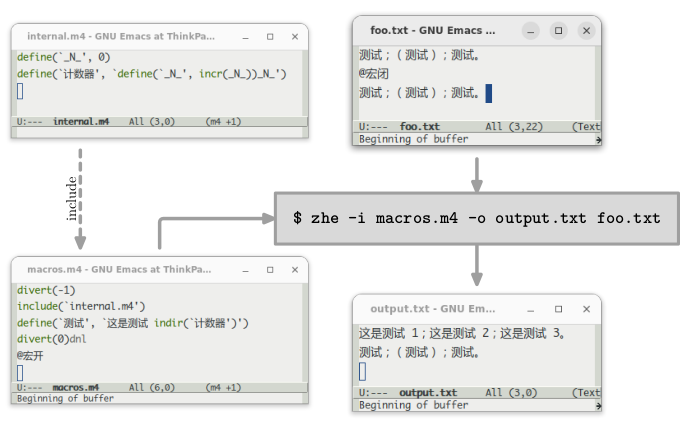
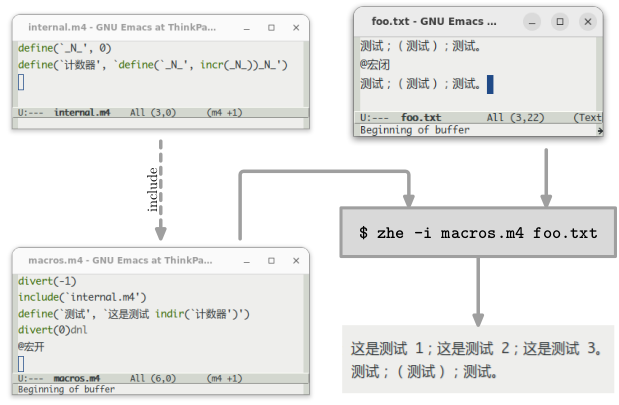
wip

Changed region(s): [[0.0, 0.0, 1.0, 1.0]]

diff --git a/output/bash/zhe.html b/output/bash/zhe.html
@@ -15,6 +15,7 @@
     pre > code.sourceCode { white-space: pre; position: relative; }
     pre > code.sourceCode > span { display: inline-block; line-height: 1.25; }
     pre > code.sourceCode > span:empty { height: 1.2em; }
+    .sourceCode { overflow: visible; }
     code.sourceCode > span { color: inherit; text-decoration: inherit; }
     div.sourceCode { margin: 1em 0; }
     pre.sourceCode { margin: 0; }
@@ -49,7 +50,7 @@
     code span.an { color: #60a0b0; font-weight: bold; font-style: italic; } /* Annotation */
     code span.at { color: #7d9029; } /* Attribute */
     code span.bn { color: #40a070; } /* BaseN */
-    code span.bu { } /* BuiltIn */
+    code span.bu { color: #008000; } /* BuiltIn */
     code span.cf { color: #007020; font-weight: bold; } /* ControlFlow */
     code span.ch { color: #4070a0; } /* Char */
     code span.cn { color: #880000; } /* Constant */
@@ -62,7 +63,7 @@
     code span.ex { } /* Extension */
     code span.fl { color: #40a070; } /* Float */
     code span.fu { color: #06287e; } /* Function */
-    code span.im { } /* Import */
+    code span.im { color: #008000; font-weight: bold; } /* Import */
     code span.in { color: #60a0b0; font-weight: bold; font-style: italic; } /* Information */
     code span.kw { color: #007020; font-weight: bold; } /* Keyword */
     code span.op { color: #666666; } /* Operator */
@@ -96,22 +97,34 @@
 <li><a href="#示例">示例</a>
 <ul>
 <li><a href="#计数器">计数器</a></li>
+<li><a href="#lua-计算器">Lua 计算器</a></li>
 </ul></li>
 </ul>
 </nav>
-<p>zhe 是使用 bash 语言编写的脚本，可用于简化中文 m4 宏的展开。除 bash 和 m4 之外，执行 zhe 还需要 awk。</p>
-<p>使用 zhe 脚本的前提是对 m4 语言有所了解。我曾经写过一份 GNU m4 学习笔记「让这世界再多一份 GNU m4 教程 <a href="https://segmentfault.com/a/1190000004104696">(1)</a> <a href="https://segmentfault.com/a/1190000004108113">(2)</a> <a href="https://segmentfault.com/a/1190000004128102">(3)</a> <a href="https://segmentfault.com/a/1190000004131031">(4)</a> <a href="https://segmentfault.com/a/1190000004137562">(5)</a>」可供参考。</p>
+<p>zhe 是使用 bash 语言编写的脚本，可用于简化中文 m4 宏的展开。除 bash
+和 m4 之外，执行 zhe 还需要 awk。</p>
+<p>使用 zhe 脚本的前提是对 m4 语言有所了解。我曾经写过一份 GNU m4
+学习笔记「让这世界再多一份 GNU m4 教程 <a
+href="https://segmentfault.com/a/1190000004104696">(1)</a> <a
+href="https://segmentfault.com/a/1190000004108113">(2)</a> <a
+href="https://segmentfault.com/a/1190000004128102">(3)</a> <a
+href="https://segmentfault.com/a/1190000004131031">(4)</a> <a
+href="https://segmentfault.com/a/1190000004137562">(5)</a>」可供参考。</p>
 <figure>
-<img src="../../figures/bash/zhe/01.png" alt="" /><figcaption>zhe</figcaption>
+<img src="../../figures/bash/zhe/01.png" alt="zhe" />
+<figcaption aria-hidden="true">zhe</figcaption>
 </figure>
 <h1 id="安装">安装</h1>
-<p>假设在 bash 环境里，将 zhe 脚本安装在 $HOME/opt/zhe 目录，可参考以下步骤：</p>
-<div class="sourceCode" id="cb1"><pre class="sourceCode bash"><code class="sourceCode bash"><span id="cb1-1"><a href="#cb1-1" aria-hidden="true"></a>$ <span class="fu">mkdir</span> -p <span class="va">$HOME</span>/opt</span>
-<span id="cb1-2"><a href="#cb1-2" aria-hidden="true"></a>$ <span class="bu">cd</span> <span class="va">$HOME</span>/opt</span>
-<span id="cb1-3"><a href="#cb1-3" aria-hidden="true"></a>$ <span class="fu">git</span> clone https://github.com/liyanrui/zhe.git</span>
-<span id="cb1-4"><a href="#cb1-4" aria-hidden="true"></a>$ <span class="bu">echo</span> <span class="st">&#39;export PATH=$HOME/opt/zhe:$PATH&#39;</span> <span class="op">&gt;&gt;</span> <span class="va">$HOME</span>/.bashrc</span></code></pre></div>
+<p>假设在 bash 环境里，将 zhe 脚本安装在 $HOME/opt/zhe
+目录，可参考以下步骤：</p>
+<div class="sourceCode" id="cb1"><pre
+class="sourceCode bash"><code class="sourceCode bash"><span id="cb1-1"><a href="#cb1-1" aria-hidden="true" tabindex="-1"></a><span class="ex">$</span> mkdir <span class="at">-p</span> <span class="va">$HOME</span>/opt</span>
+<span id="cb1-2"><a href="#cb1-2" aria-hidden="true" tabindex="-1"></a><span class="ex">$</span> cd <span class="va">$HOME</span>/opt</span>
+<span id="cb1-3"><a href="#cb1-3" aria-hidden="true" tabindex="-1"></a><span class="ex">$</span> git clone https://github.com/liyanrui/zhe.git</span>
+<span id="cb1-4"><a href="#cb1-4" aria-hidden="true" tabindex="-1"></a><span class="ex">$</span> echo <span class="st">&#39;export PATH=$HOME/opt/zhe:$PATH&#39;</span> <span class="op">&gt;&gt;</span> <span class="va">$HOME</span>/.bashrc</span></code></pre></div>
 <p>在任意目录下，执行以下命令可确认 zhe 脚本是否可用：</p>
-<div class="sourceCode" id="cb2"><pre class="sourceCode bash"><code class="sourceCode bash"><span id="cb2-1"><a href="#cb2-1" aria-hidden="true"></a>$ <span class="ex">zhe</span> -h</span></code></pre></div>
+<div class="sourceCode" id="cb2"><pre
+class="sourceCode bash"><code class="sourceCode bash"><span id="cb2-1"><a href="#cb2-1" aria-hidden="true" tabindex="-1"></a><span class="ex">$</span> zhe <span class="at">-h</span></span></code></pre></div>
 <p>上述命令应当输出：</p>
 <pre><code>Usage: zhe [OPTION] FILE
 Opitons:
@@ -119,69 +132,117 @@ Opitons:
   -o file   output result to file.</code></pre>
 <h1 id="用法">用法</h1>
 <p>假设文件 macros.m4 中定义了一些以汉字或标点符号命名的 m4 宏，例如</p>
-<div class="sourceCode" id="cb4"><pre class="sourceCode m4"><code class="sourceCode m4"><span id="cb4-1"><a href="#cb4-1" aria-hidden="true"></a><span class="kw">divert</span><span class="ch">(-</span><span class="dv">1</span><span class="ch">)</span></span>
-<span id="cb4-2"><a href="#cb4-2" aria-hidden="true"></a><span class="kw">define</span><span class="ch">(</span>`将近酒&#39;<span class="ch">,</span> `「君不见，黄河之水天上来……」&#39;<span class="ch">)</span></span>
-<span id="cb4-3"><a href="#cb4-3" aria-hidden="true"></a><span class="kw">define</span><span class="ch">(</span>`。&#39;<span class="ch">,</span> `.&#39;<span class="ch">)</span></span>
-<span id="cb4-4"><a href="#cb4-4" aria-hidden="true"></a><span class="kw">divert</span><span class="ch">(</span><span class="dv">0</span><span class="ch">)</span><span class="kw">dnl</span></span></code></pre></div>
+<div class="sourceCode" id="cb4"><pre class="sourceCode m4"><code class="sourceCode m4"><span id="cb4-1"><a href="#cb4-1" aria-hidden="true" tabindex="-1"></a><span class="kw">divert</span><span class="ch">(-</span><span class="dv">1</span><span class="ch">)</span></span>
+<span id="cb4-2"><a href="#cb4-2" aria-hidden="true" tabindex="-1"></a><span class="kw">define</span><span class="ch">(</span>`将近酒&#39;<span class="ch">,</span> `「君不见，黄河之水天上来……」&#39;<span class="ch">)</span></span>
+<span id="cb4-3"><a href="#cb4-3" aria-hidden="true" tabindex="-1"></a><span class="kw">define</span><span class="ch">(</span>`。&#39;<span class="ch">,</span> `.&#39;<span class="ch">)</span></span>
+<span id="cb4-4"><a href="#cb4-4" aria-hidden="true" tabindex="-1"></a><span class="kw">divert</span><span class="ch">(</span><span class="dv">0</span><span class="ch">)</span><span class="kw">dnl</span></span></code></pre></div>
 <p>假设文件 foo.txt 中使用了 macros.m4 中定义的宏，例如</p>
-<div class="sourceCode" id="cb5"><pre class="sourceCode m4"><code class="sourceCode m4"><span id="cb5-1"><a href="#cb5-1" aria-hidden="true"></a>@宏开</span>
-<span id="cb5-2"><a href="#cb5-2" aria-hidden="true"></a>你听说过将近酒吗？我认为这是一首最优秀的唐诗。</span></code></pre></div>
-<p>使用以下命令可将 foo.txt 中位于 <code>@宏开</code> 之后的内容展开：</p>
-<div class="sourceCode" id="cb6"><pre class="sourceCode bash"><code class="sourceCode bash"><span id="cb6-1"><a href="#cb6-1" aria-hidden="true"></a>$ <span class="ex">zhe</span> -i macros.m4 foo.txt</span>
-<span id="cb6-2"><a href="#cb6-2" aria-hidden="true"></a>你听说过「君不见，黄河之水天上来……」吗？我认为这是一首最优秀的唐诗<span class="ex">.</span></span></code></pre></div>
-<p>上述示例表现了 <code>@宏开</code> 之后的语句中的 <code>将近酒</code> 和中文句号分别被展开为 <code>「君不见，黄河之水天上来……」</code> 和英文句号。</p>
-<p>与 <code>@宏开</code> 相反，<code>@宏闭</code> 可令 zhe 忽略语句中的宏。例如</p>
-<div class="sourceCode" id="cb7"><pre class="sourceCode m4"><code class="sourceCode m4"><span id="cb7-1"><a href="#cb7-1" aria-hidden="true"></a>@宏闭</span>
-<span id="cb7-2"><a href="#cb7-2" aria-hidden="true"></a>你听说过将近酒吗？我认为这是一首最优秀的唐诗。</span></code></pre></div>
+<div class="sourceCode" id="cb5"><pre class="sourceCode m4"><code class="sourceCode m4"><span id="cb5-1"><a href="#cb5-1" aria-hidden="true" tabindex="-1"></a>@宏开</span>
+<span id="cb5-2"><a href="#cb5-2" aria-hidden="true" tabindex="-1"></a>你听说过将近酒吗？我认为这是一首最优秀的唐诗。</span></code></pre></div>
+<p>使用以下命令可将 foo.txt 中位于 <code>@宏开</code>
+之后的内容展开：</p>
+<div class="sourceCode" id="cb6"><pre
+class="sourceCode bash"><code class="sourceCode bash"><span id="cb6-1"><a href="#cb6-1" aria-hidden="true" tabindex="-1"></a><span class="ex">$</span> zhe <span class="at">-i</span> macros.m4 foo.txt</span>
+<span id="cb6-2"><a href="#cb6-2" aria-hidden="true" tabindex="-1"></a><span class="ex">你听说过「君不见，黄河之水天上来……」吗？我认为这是一首最优秀的唐诗.</span></span></code></pre></div>
+<p>上述示例表现了 <code>@宏开</code> 之后的语句中的 <code>将近酒</code>
+和中文句号分别被展开为 <code>「君不见，黄河之水天上来……」</code>
+和英文句号。</p>
+<p>与 <code>@宏开</code> 相反，<code>@宏闭</code> 可令 zhe
+忽略语句中的宏。例如</p>
+<div class="sourceCode" id="cb7"><pre class="sourceCode m4"><code class="sourceCode m4"><span id="cb7-1"><a href="#cb7-1" aria-hidden="true" tabindex="-1"></a>@宏闭</span>
+<span id="cb7-2"><a href="#cb7-2" aria-hidden="true" tabindex="-1"></a>你听说过将近酒吗？我认为这是一首最优秀的唐诗。</span></code></pre></div>
 <p>zhe 命令对上述内容的处理结果为</p>
-<div class="sourceCode" id="cb8"><pre class="sourceCode m4"><code class="sourceCode m4"><span id="cb8-1"><a href="#cb8-1" aria-hidden="true"></a>你听说过将近酒吗？我认为这是一首最优秀的唐诗。</span></code></pre></div>
+<div class="sourceCode" id="cb8"><pre class="sourceCode m4"><code class="sourceCode m4"><span id="cb8-1"><a href="#cb8-1" aria-hidden="true" tabindex="-1"></a>你听说过将近酒吗？我认为这是一首最优秀的唐诗。</span></code></pre></div>
 <p>使用 <code>-o</code> 选项可将 zhe 的输出保存到指定的文件。例如</p>
-<div class="sourceCode" id="cb9"><pre class="sourceCode bash"><code class="sourceCode bash"><span id="cb9-1"><a href="#cb9-1" aria-hidden="true"></a>$ <span class="ex">zhe</span> -i macros.m4 -o foo-output.txt foo.txt</span></code></pre></div>
-<p>可将 zhe 的输出结果保存到与 foo.txt 位于同一目录下的文件 foo-output.txt 中。</p>
+<div class="sourceCode" id="cb9"><pre
+class="sourceCode bash"><code class="sourceCode bash"><span id="cb9-1"><a href="#cb9-1" aria-hidden="true" tabindex="-1"></a><span class="ex">$</span> zhe <span class="at">-i</span> macros.m4 <span class="at">-o</span> foo-output.txt foo.txt</span></code></pre></div>
+<p>可将 zhe 的输出结果保存到与 foo.txt 位于同一目录下的文件
+foo-output.txt 中。</p>
 <h1 id="宏的调用">宏的调用</h1>
-<p>zhe（基于 Awk 脚本）改变了 m4 宏的调用语法。对于无参数宏，如上一节示例里的两个宏，以普通文字的形式出现即可，亦可以中文括号（全角括号）囊括的形式出现，例如</p>
+<p>zhe（基于 Awk 脚本）改变了 m4
+宏的调用语法。对于无参数宏，如上一节示例里的两个宏，以普通文字的形式出现即可，亦可以中文括号（全角括号）囊括的形式出现，例如</p>
 <pre><code>你听说过（将近酒）吗？我认为这是一首最优秀的唐诗。</code></pre>
 <p>中文括号形式的宏调用主要是面向有参数的宏，调用语法为</p>
-<div class="sourceCode" id="cb11"><pre class="sourceCode m4"><code class="sourceCode m4"><span id="cb11-1"><a href="#cb11-1" aria-hidden="true"></a>（宏名，参数 <span class="dv">1</span>，参数 <span class="dv">2</span>，……）</span></code></pre></div>
-<p>注意，宏名以及参数之间的逗号，皆为中文逗号（全角逗号）。例如，在 macros.m4 文件中定义一个有参数的宏</p>
-<div class="sourceCode" id="cb12"><pre class="sourceCode m4"><code class="sourceCode m4"><span id="cb12-1"><a href="#cb12-1" aria-hidden="true"></a><span class="kw">define</span><span class="ch">(</span>`测试&#39;<span class="ch">,</span> `这是测试 <span class="ch">$1</span>。&#39;<span class="ch">)</span></span></code></pre></div>
+<div class="sourceCode" id="cb11"><pre
+class="sourceCode m4"><code class="sourceCode m4"><span id="cb11-1"><a href="#cb11-1" aria-hidden="true" tabindex="-1"></a>（宏名，参数 <span class="dv">1</span>，参数 <span class="dv">2</span>，……）</span></code></pre></div>
+<p>注意，宏名以及参数之间的逗号，皆为中文逗号（全角逗号）。例如，在
+macros.m4 文件中定义一个有参数的宏</p>
+<div class="sourceCode" id="cb12"><pre
+class="sourceCode m4"><code class="sourceCode m4"><span id="cb12-1"><a href="#cb12-1" aria-hidden="true" tabindex="-1"></a><span class="kw">define</span><span class="ch">(</span>`测试&#39;<span class="ch">,</span> `这是测试 <span class="ch">$1</span>。&#39;<span class="ch">)</span></span></code></pre></div>
 <p>在 foo.txt 中可以像下面这样调用 <code>测试</code> 宏：</p>
 <pre><code>有参数的宏：（测试，2）</code></pre>
 <p>上述语句在 <code>@宏开</code> 模式下，可被 zhe 展开为</p>
 <pre><code>有参数的宏：这是测试 2。</code></pre>
+<p><strong>特别提醒：目前，zhe 尚不支持嵌套形式的中文宏调用，例如
+<code>（甲，‘乙’，（丙，‘丁’））</code>。下一个版本将实现该功能。</strong></p>
 <h1 id="缘由">缘由</h1>
-<p>m4 的宏调用语法是迎合英文习惯，英文单词之间是有空格作为间隔的，在视觉上容易分辨出普通文字和宏调用语句的区别。例如</p>
+<p>m4
+的宏调用语法是迎合英文习惯，英文单词之间是有空格作为间隔的，在视觉上容易分辨出普通文字和宏调用语句的区别。例如</p>
 <pre><code>when we say test(3), what are we talking about?</code></pre>
-<p>中文字符之间通常没有空格作为间隔，若采用 m4 宏的调用语法，固然可行，但是对于含有宏调用的语句，其可读性将大打折扣。例如，</p>
+<p>中文字符之间通常没有空格作为间隔，若采用 m4
+宏的调用语法，固然可行，但是对于含有宏调用的语句，其可读性将大打折扣。例如，</p>
 <pre><code>当我们说测试（3）的时候，我们在说什么？</code></pre>
-<p>故而，zhe 修改了有参数的中文宏的调用方式（借鉴了 Lisp 函数调用），将宏名移到括号内，且为了避免频繁切换输入法以输入英文括号，逗号和引号，中文宏调用语句使用的标点符号皆为全角标点。</p>
+<p>故而，zhe 修改了有参数的中文宏的调用方式（借鉴了 Lisp
+函数调用），将宏名移到括号内，且为了避免频繁切换输入法以输入英文括号，逗号和引号，中文宏调用语句使用的标点符号皆为全角标点。</p>
 <h1 id="引号">引号</h1>
-<p>m4 的引号可用于字符转义——将特殊字符转为普通字符。zhe 与之类似，只是使用中文单引号代替了 m4 的 ` 和 ’。例如，以下语句</p>
-<div class="sourceCode" id="cb17"><pre class="sourceCode m4"><code class="sourceCode m4"><span id="cb17-1"><a href="#cb17-1" aria-hidden="true"></a>有参数的宏：‘（测试，<span class="dv">2</span>）’</span></code></pre></div>
-<p>其中宏调用 <code>（测试，2）</code> 会被引号转义为普通文字，zhe 不予展开，故而 zhe 对上述语句的处理结果为</p>
-<div class="sourceCode" id="cb18"><pre class="sourceCode m4"><code class="sourceCode m4"><span id="cb18-1"><a href="#cb18-1" aria-hidden="true"></a>有参数的宏：（测试，<span class="dv">2</span>）</span></code></pre></div>
+<p>m4 的引号可用于字符转义——将特殊字符转为普通字符。zhe
+与之类似，只是使用中文单引号代替了 m4 的 ` 和 ’。例如，以下语句</p>
+<div class="sourceCode" id="cb17"><pre
+class="sourceCode m4"><code class="sourceCode m4"><span id="cb17-1"><a href="#cb17-1" aria-hidden="true" tabindex="-1"></a>有参数的宏：‘（测试，<span class="dv">2</span>）’</span></code></pre></div>
+<p>其中宏调用 <code>（测试，2）</code> 会被引号转义为普通文字，zhe
+不予展开，故而 zhe 对上述语句的处理结果为</p>
+<div class="sourceCode" id="cb18"><pre
+class="sourceCode m4"><code class="sourceCode m4"><span id="cb18-1"><a href="#cb18-1" aria-hidden="true" tabindex="-1"></a>有参数的宏：（测试，<span class="dv">2</span>）</span></code></pre></div>
 <h1 id="示例">示例</h1>
-<p>除了简单的文本替换之外，zhe 也能用于解决一些较为复杂问题。该部分内容可能会持续更新。</p>
+<p>除了简单的文本替换之外，zhe
+目前也能用于解决一些略微复杂的问题。该部分内容可能会持续更新。</p>
 <h2 id="计数器">计数器</h2>
 <p>文件 internal.m4：</p>
-<div class="sourceCode" id="cb19"><pre class="sourceCode m4"><code class="sourceCode m4"><span id="cb19-1"><a href="#cb19-1" aria-hidden="true"></a><span class="kw">define</span><span class="ch">(</span>`_N_&#39;<span class="ch">,</span> <span class="dv">0</span><span class="ch">)</span></span>
-<span id="cb19-2"><a href="#cb19-2" aria-hidden="true"></a><span class="kw">define</span><span class="ch">(</span>`计数器&#39;<span class="ch">,</span> `define<span class="ch">(</span>`_N_&#39;<span class="ch">,</span> <span class="kw">incr</span><span class="ch">(</span>_N_<span class="ch">))</span>_N_&#39;<span class="ch">)</span></span></code></pre></div>
+<div class="sourceCode" id="cb19"><pre
+class="sourceCode m4"><code class="sourceCode m4"><span id="cb19-1"><a href="#cb19-1" aria-hidden="true" tabindex="-1"></a><span class="kw">define</span><span class="ch">(</span>`_N_&#39;<span class="ch">,</span> <span class="dv">0</span><span class="ch">)</span></span>
+<span id="cb19-2"><a href="#cb19-2" aria-hidden="true" tabindex="-1"></a><span class="kw">define</span><span class="ch">(</span>`计数器&#39;<span class="ch">,</span> `define<span class="ch">(</span>`_N_&#39;<span class="ch">,</span> <span class="kw">incr</span><span class="ch">(</span>_N_<span class="ch">))</span>_N_&#39;<span class="ch">)</span></span></code></pre></div>
 <p>文件 macros.m4：</p>
-<div class="sourceCode" id="cb20"><pre class="sourceCode m4"><code class="sourceCode m4"><span id="cb20-1"><a href="#cb20-1" aria-hidden="true"></a><span class="kw">divert</span><span class="ch">(-</span><span class="dv">1</span><span class="ch">)</span></span>
-<span id="cb20-2"><a href="#cb20-2" aria-hidden="true"></a><span class="kw">include</span><span class="ch">(</span>`internal.m4&#39;<span class="ch">)</span></span>
-<span id="cb20-3"><a href="#cb20-3" aria-hidden="true"></a><span class="kw">define</span><span class="ch">(</span>`测试&#39;<span class="ch">,</span> `这是测试 <span class="kw">indir</span><span class="ch">(</span>`计数器&#39;<span class="ch">)</span>&#39;<span class="ch">)</span></span>
-<span id="cb20-4"><a href="#cb20-4" aria-hidden="true"></a><span class="kw">divert</span><span class="ch">(</span><span class="dv">0</span><span class="ch">)</span><span class="kw">dnl</span></span>
-<span id="cb20-5"><a href="#cb20-5" aria-hidden="true"></a>@宏开</span></code></pre></div>
+<div class="sourceCode" id="cb20"><pre
+class="sourceCode m4"><code class="sourceCode m4"><span id="cb20-1"><a href="#cb20-1" aria-hidden="true" tabindex="-1"></a><span class="kw">divert</span><span class="ch">(-</span><span class="dv">1</span><span class="ch">)</span></span>
+<span id="cb20-2"><a href="#cb20-2" aria-hidden="true" tabindex="-1"></a><span class="kw">include</span><span class="ch">(</span>`internal.m4&#39;<span class="ch">)</span></span>
+<span id="cb20-3"><a href="#cb20-3" aria-hidden="true" tabindex="-1"></a><span class="kw">define</span><span class="ch">(</span>`测试&#39;<span class="ch">,</span> `这是测试 <span class="kw">indir</span><span class="ch">(</span>`计数器&#39;<span class="ch">)</span>&#39;<span class="ch">)</span></span>
+<span id="cb20-4"><a href="#cb20-4" aria-hidden="true" tabindex="-1"></a><span class="kw">divert</span><span class="ch">(</span><span class="dv">0</span><span class="ch">)</span><span class="kw">dnl</span></span>
+<span id="cb20-5"><a href="#cb20-5" aria-hidden="true" tabindex="-1"></a>@宏开</span></code></pre></div>
 <p>文件 foo.txt：</p>
-<div class="sourceCode" id="cb21"><pre class="sourceCode m4"><code class="sourceCode m4"><span id="cb21-1"><a href="#cb21-1" aria-hidden="true"></a>测试；（测试）；测试。</span>
-<span id="cb21-2"><a href="#cb21-2" aria-hidden="true"></a>@宏闭</span>
-<span id="cb21-3"><a href="#cb21-3" aria-hidden="true"></a>测试；（测试）；测试。</span></code></pre></div>
+<div class="sourceCode" id="cb21"><pre
+class="sourceCode m4"><code class="sourceCode m4"><span id="cb21-1"><a href="#cb21-1" aria-hidden="true" tabindex="-1"></a>测试；（测试）；测试。</span>
+<span id="cb21-2"><a href="#cb21-2" aria-hidden="true" tabindex="-1"></a>@宏闭</span>
+<span id="cb21-3"><a href="#cb21-3" aria-hidden="true" tabindex="-1"></a>测试；（测试）；测试。</span></code></pre></div>
 <p>以下命令</p>
-<div class="sourceCode" id="cb22"><pre class="sourceCode bash"><code class="sourceCode bash"><span id="cb22-1"><a href="#cb22-1" aria-hidden="true"></a>$ <span class="ex">zhe</span> -i macros foo.txt</span></code></pre></div>
+<div class="sourceCode" id="cb22"><pre
+class="sourceCode bash"><code class="sourceCode bash"><span id="cb22-1"><a href="#cb22-1" aria-hidden="true" tabindex="-1"></a><span class="ex">$</span> zhe <span class="at">-i</span> macros foo.txt</span></code></pre></div>
 <p>的输出为</p>
 <pre><code>这是测试 1；这是测试 2；这是测试 3。
 测试；测试；测试。</code></pre>
+<h2 id="lua-计算器">Lua 计算器</h2>
+<p>internal.m4：</p>
+<div class="sourceCode" id="cb24"><pre
+class="sourceCode m4"><code class="sourceCode m4"><span id="cb24-1"><a href="#cb24-1" aria-hidden="true" tabindex="-1"></a><span class="kw">define</span><span class="ch">(</span>`calc&#39;<span class="ch">,</span></span>
+<span id="cb24-2"><a href="#cb24-2" aria-hidden="true" tabindex="-1"></a>       `syscmd<span class="ch">(</span>`echo &quot;io.write<span class="ch">(</span>string.<span class="kw">format</span><span class="ch">(</span>\&quot;<span class="ch">%</span><span class="dv">0</span>.<span class="dv">3</span>f\&quot;<span class="ch">,</span> <span class="ch">$1))</span>&quot; <span class="ch">|</span> lua&#39;<span class="ch">)</span>&#39;<span class="ch">)</span></span></code></pre></div>
+<p>macros.m4：</p>
+<div class="sourceCode" id="cb25"><pre
+class="sourceCode m4"><code class="sourceCode m4"><span id="cb25-1"><a href="#cb25-1" aria-hidden="true" tabindex="-1"></a><span class="kw">divert</span><span class="ch">(-</span><span class="dv">1</span><span class="ch">)</span></span>
+<span id="cb25-2"><a href="#cb25-2" aria-hidden="true" tabindex="-1"></a><span class="kw">include</span><span class="ch">(</span>`internal.m4&#39;<span class="ch">)</span></span>
+<span id="cb25-3"><a href="#cb25-3" aria-hidden="true" tabindex="-1"></a><span class="kw">define</span><span class="ch">(</span>`计算&#39;<span class="ch">,</span> ` calc<span class="ch">($1)</span> &#39;<span class="ch">)</span></span>
+<span id="cb25-4"><a href="#cb25-4" aria-hidden="true" tabindex="-1"></a><span class="kw">divert</span><span class="ch">(</span><span class="dv">0</span><span class="ch">)</span><span class="kw">dnl</span></span>
+<span id="cb25-5"><a href="#cb25-5" aria-hidden="true" tabindex="-1"></a>@宏开</span></code></pre></div>
+<p>foo.txt：</p>
+<div class="sourceCode" id="cb26"><pre
+class="sourceCode m4"><code class="sourceCode m4"><span id="cb26-1"><a href="#cb26-1" aria-hidden="true" tabindex="-1"></a>当我们看到（计算，<span class="dv">1</span><span class="ch">/</span><span class="dv">3</span>）时，能意识到它是‘（计算，<span class="dv">1</span><span class="ch">/</span><span class="dv">3</span>）’的产物吗？</span></code></pre></div>
+<p>以下命令</p>
+<div class="sourceCode" id="cb27"><pre
+class="sourceCode bash"><code class="sourceCode bash"><span id="cb27-1"><a href="#cb27-1" aria-hidden="true" tabindex="-1"></a><span class="ex">$</span> zhe <span class="at">-i</span> macros.m4 foo.txt</span></code></pre></div>
+<p>的输出为</p>
+<div class="sourceCode" id="cb28"><pre
+class="sourceCode m4"><code class="sourceCode m4"><span id="cb28-1"><a href="#cb28-1" aria-hidden="true" tabindex="-1"></a>当我们看到 <span class="dv">0</span>.<span class="dv">333</span> 时，能意识到它是（计算，<span class="dv">1</span><span class="ch">/</span><span class="dv">3</span>）的产物吗？</span></code></pre></div>
 <hr />
-<div class="footer">我的联系方式：<a href="mailto:lyr.m2@live.cn" class="email">lyr.m2@live.cn</a> 或在<a href="https://github.com/liyanrui/liyanrui.github.io/issues">讨论区</a>提问。</div>
+<div class="footer">我的联系方式：<a href="mailto:lyr.m2@live.cn"
+class="email">lyr.m2@live.cn</a> 或在<a
+href="https://github.com/liyanrui/liyanrui.github.io/issues">讨论区</a>提问。</div>
 </body>
 </html>

diff --git a/source/metafun/examples/zhe.tex b/source/metafun/examples/zhe.tex
@@ -4,15 +4,15 @@
 景(甲, "figures/internal.png", 7cm, "auto");
 景(乙, "figures/macros.png", 7cm, "auto") 位于 甲 偏 (南 5.5cm);
 景(丙, "figures/txt.png", 6cm, "auto") 位于 甲 偏 (东 7cm);
-宫(丁, "\bf\type{$ zhe -i macros.m4 -o output.txt foo.txt}") 位于 丙 偏 (南 3cm);
-景(戊, "figures/output.png", 6cm, "auto") 位于 丁 偏 (南 3cm);
+宫(丁, "\bf\type{$ zhe -i macros.m4 foo.txt}") 位于 丙 偏 (南 3.5cm);
+景(戊, "figures/output.png", 6cm, "auto") 位于 丁 偏 (南 2.8cm);
 呜呼 甲, 乙, 丙, 丁, 戊;
 
 用虚线;
-路(甲乙, 甲.未门 纬至 乙.子门) 标注 ("include", 90);
+路(甲乙, 甲.午门 -- 乙.子门) 标注 ("include", 90);
 用实线;
-路(乙丁, 乙.子门 经转 丁.酉门);
-路(丙丁, 丙.午门 -- 丁.子门);
+路(乙丁, 乙.丑门 纬至 丁.艮位 纬转 丁.亥门);
+路(丙丁, 丙.巳门 纬至 丁.子门);
 路(丁戊, 丁.午门 -- 戊.子门);
 \stopuseMPgraphic
 \startTEXpage[offset=4pt]
